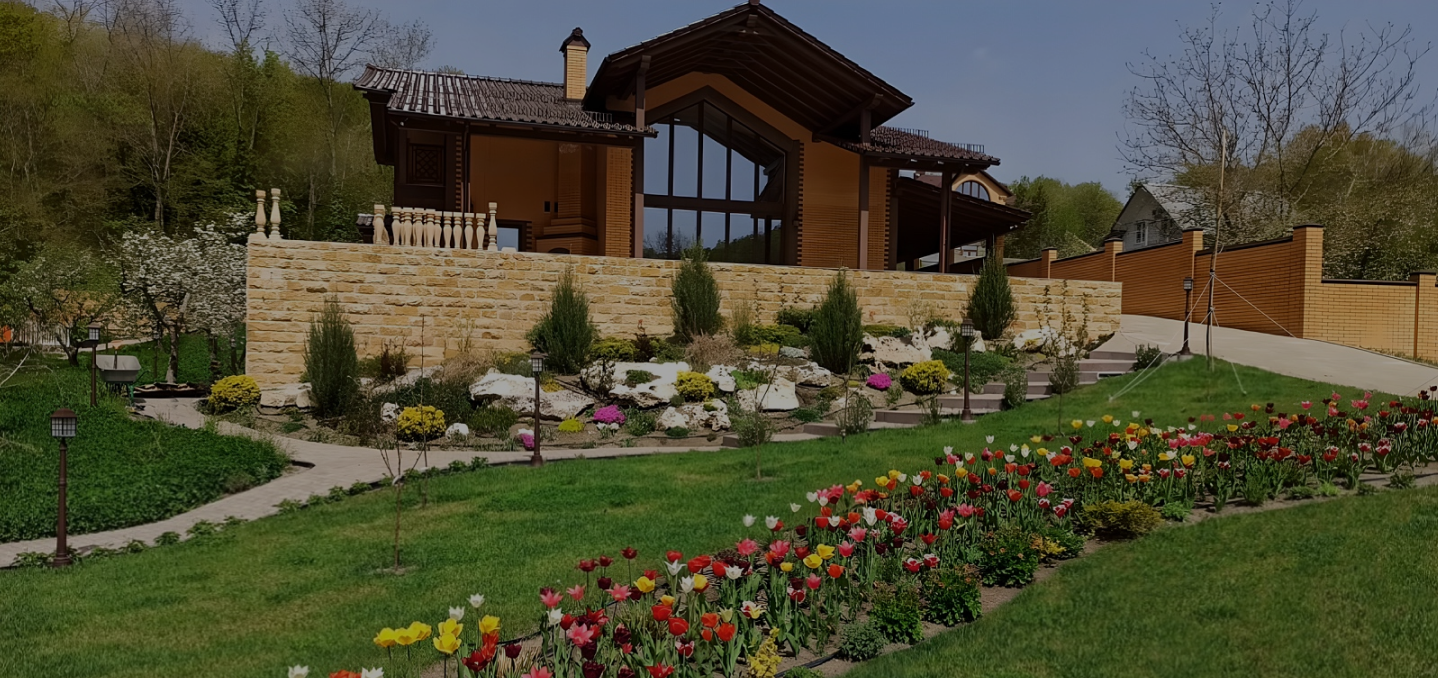
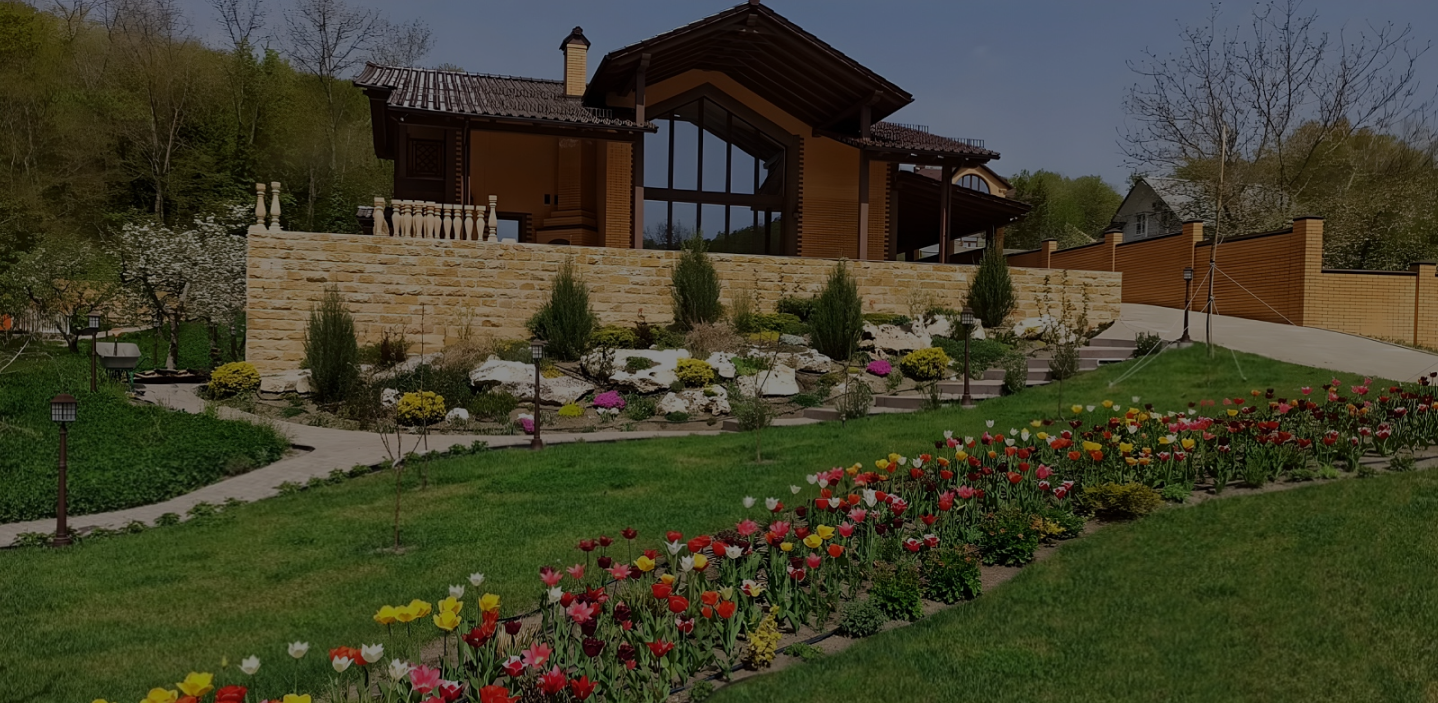
last changes

diff --git a/css/style.css b/css/style.css
@@ -264,6 +264,10 @@ h1{
     position: relative;
 }
 
+.projects__img img{
+    object-fit: cover;
+}
+
 .projects__subtitle{
     position: absolute;
     bottom: 12px;
@@ -614,7 +618,7 @@ h1{
     }
     .projects__bighorizontal{
         width: 400px;
-        height: 280px;
+        height: 250px;
     }
     .projects__wrapper:nth-child(2){
         margin-left: 20px;
@@ -742,6 +746,9 @@ h1{
     .designer__figure.figure2{
         width: 350px;
         top: 60px !important;
+    }
+    .services{
+        padding-top: 60px;
     }
 }
 
